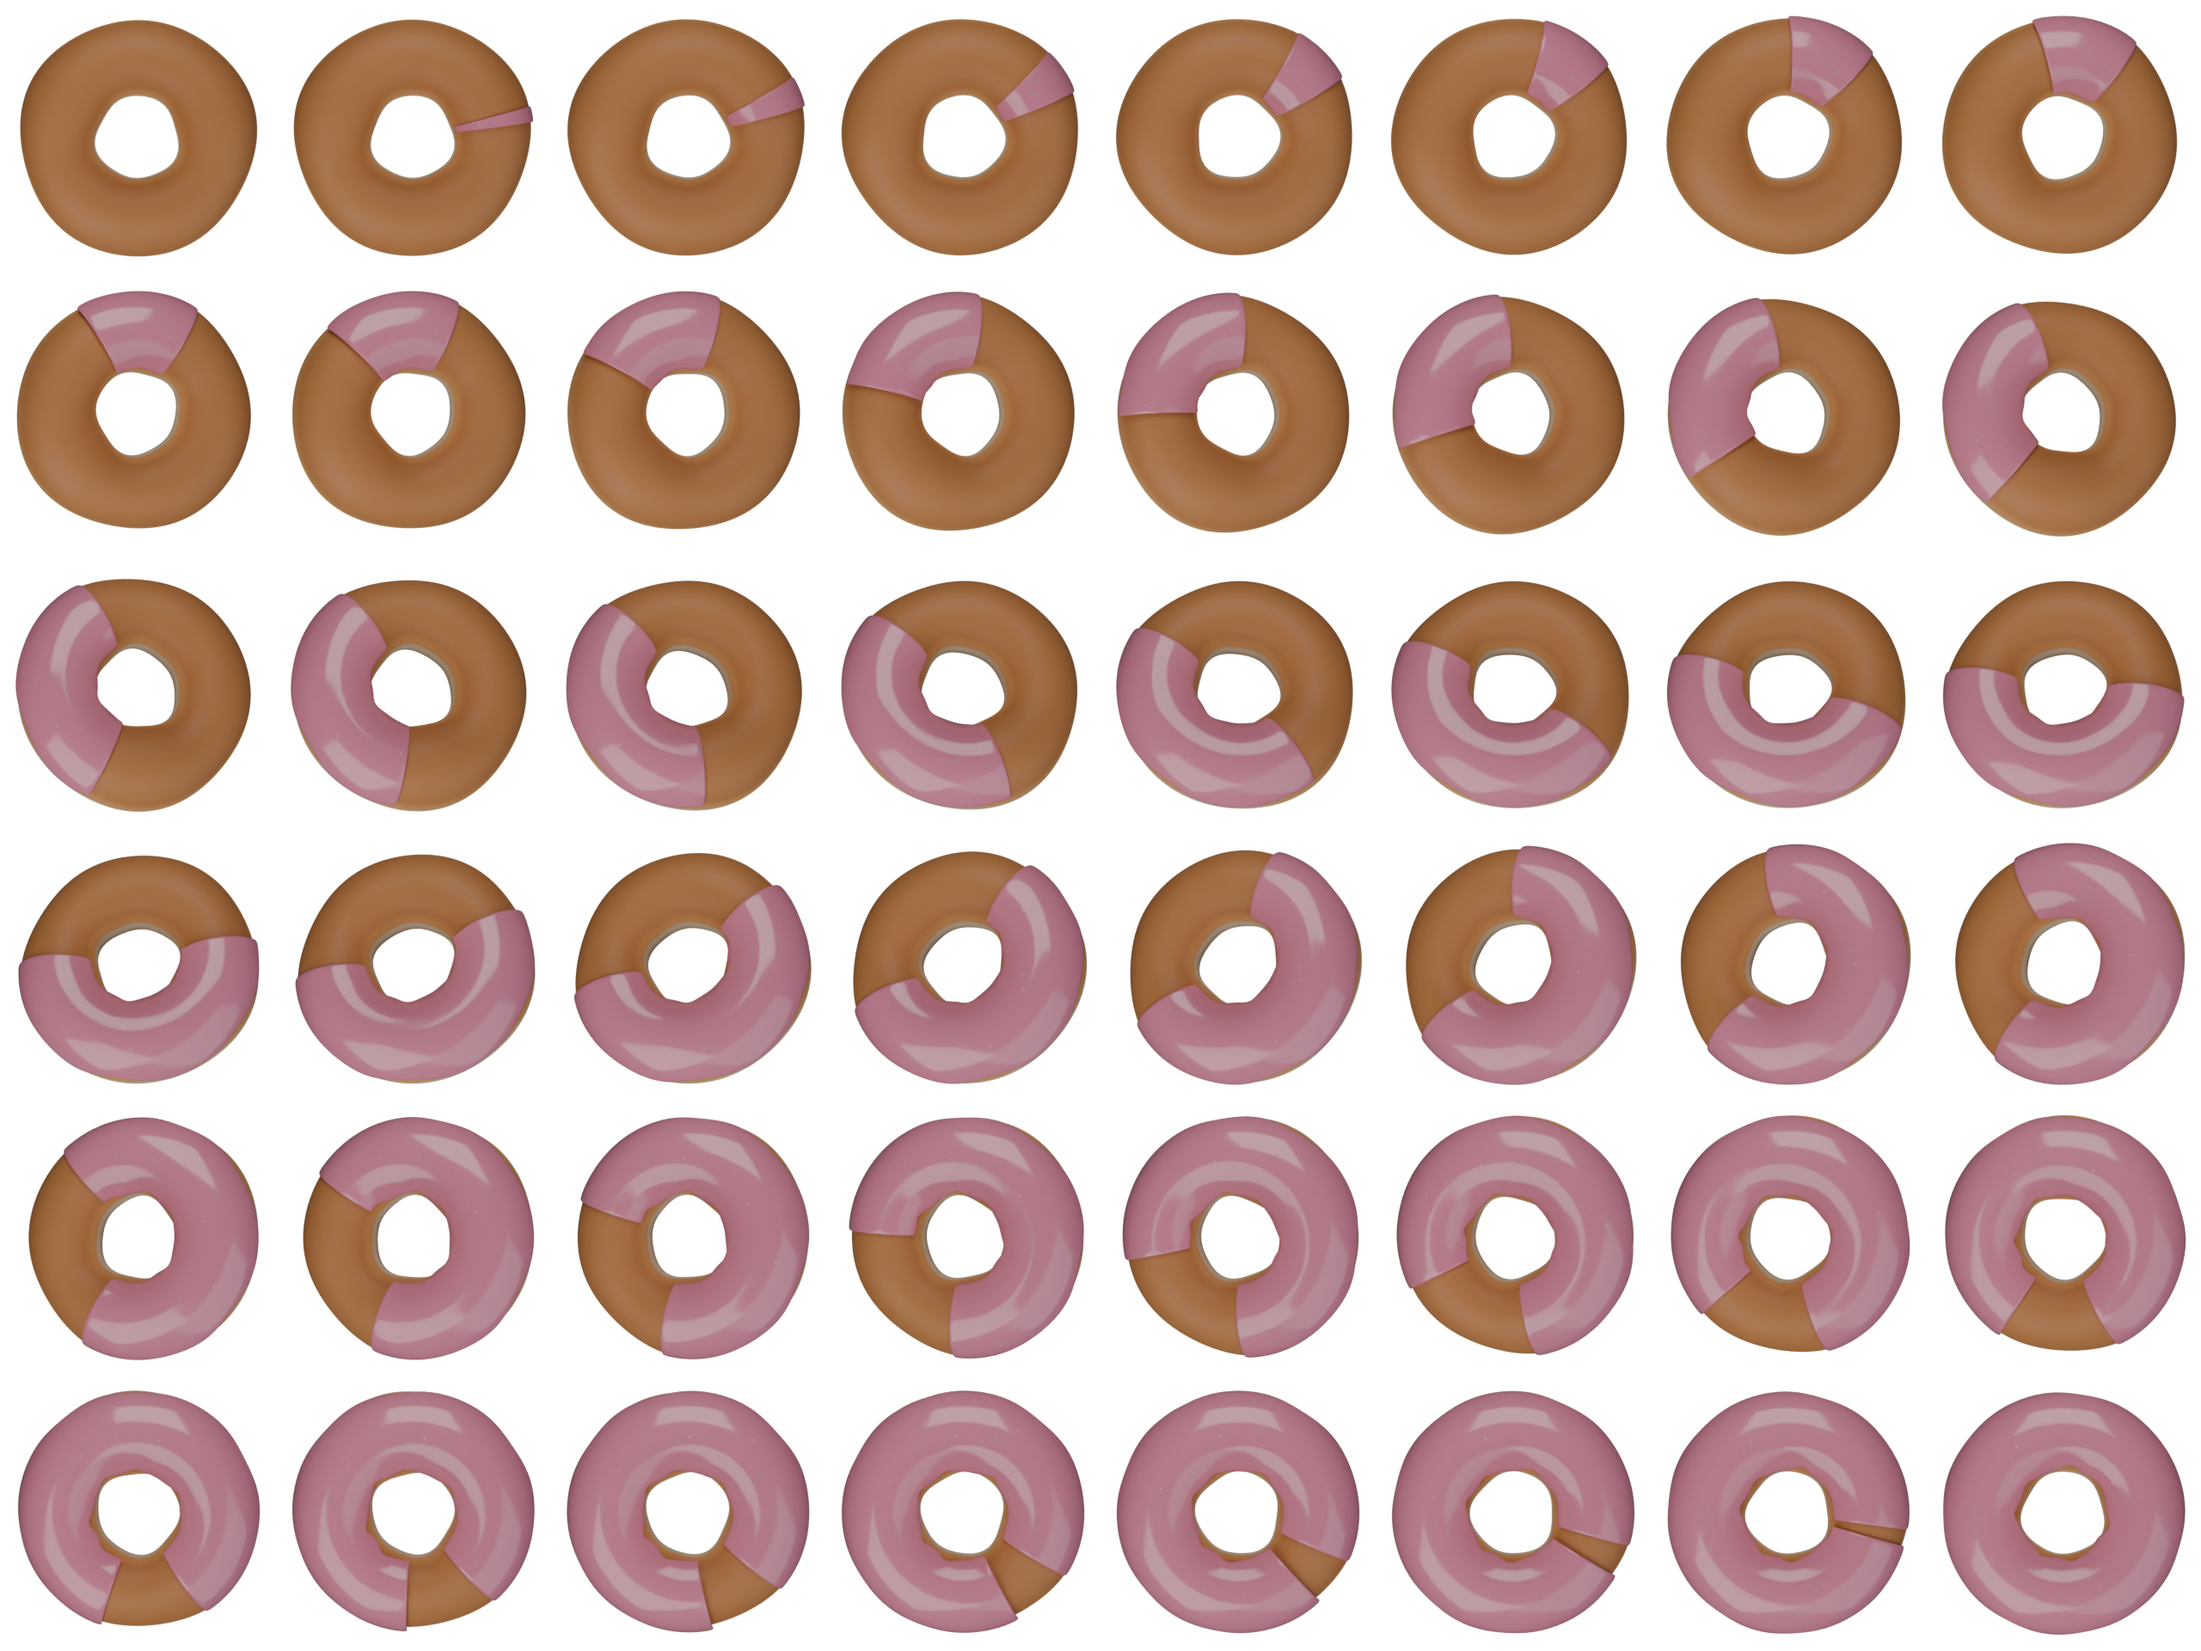
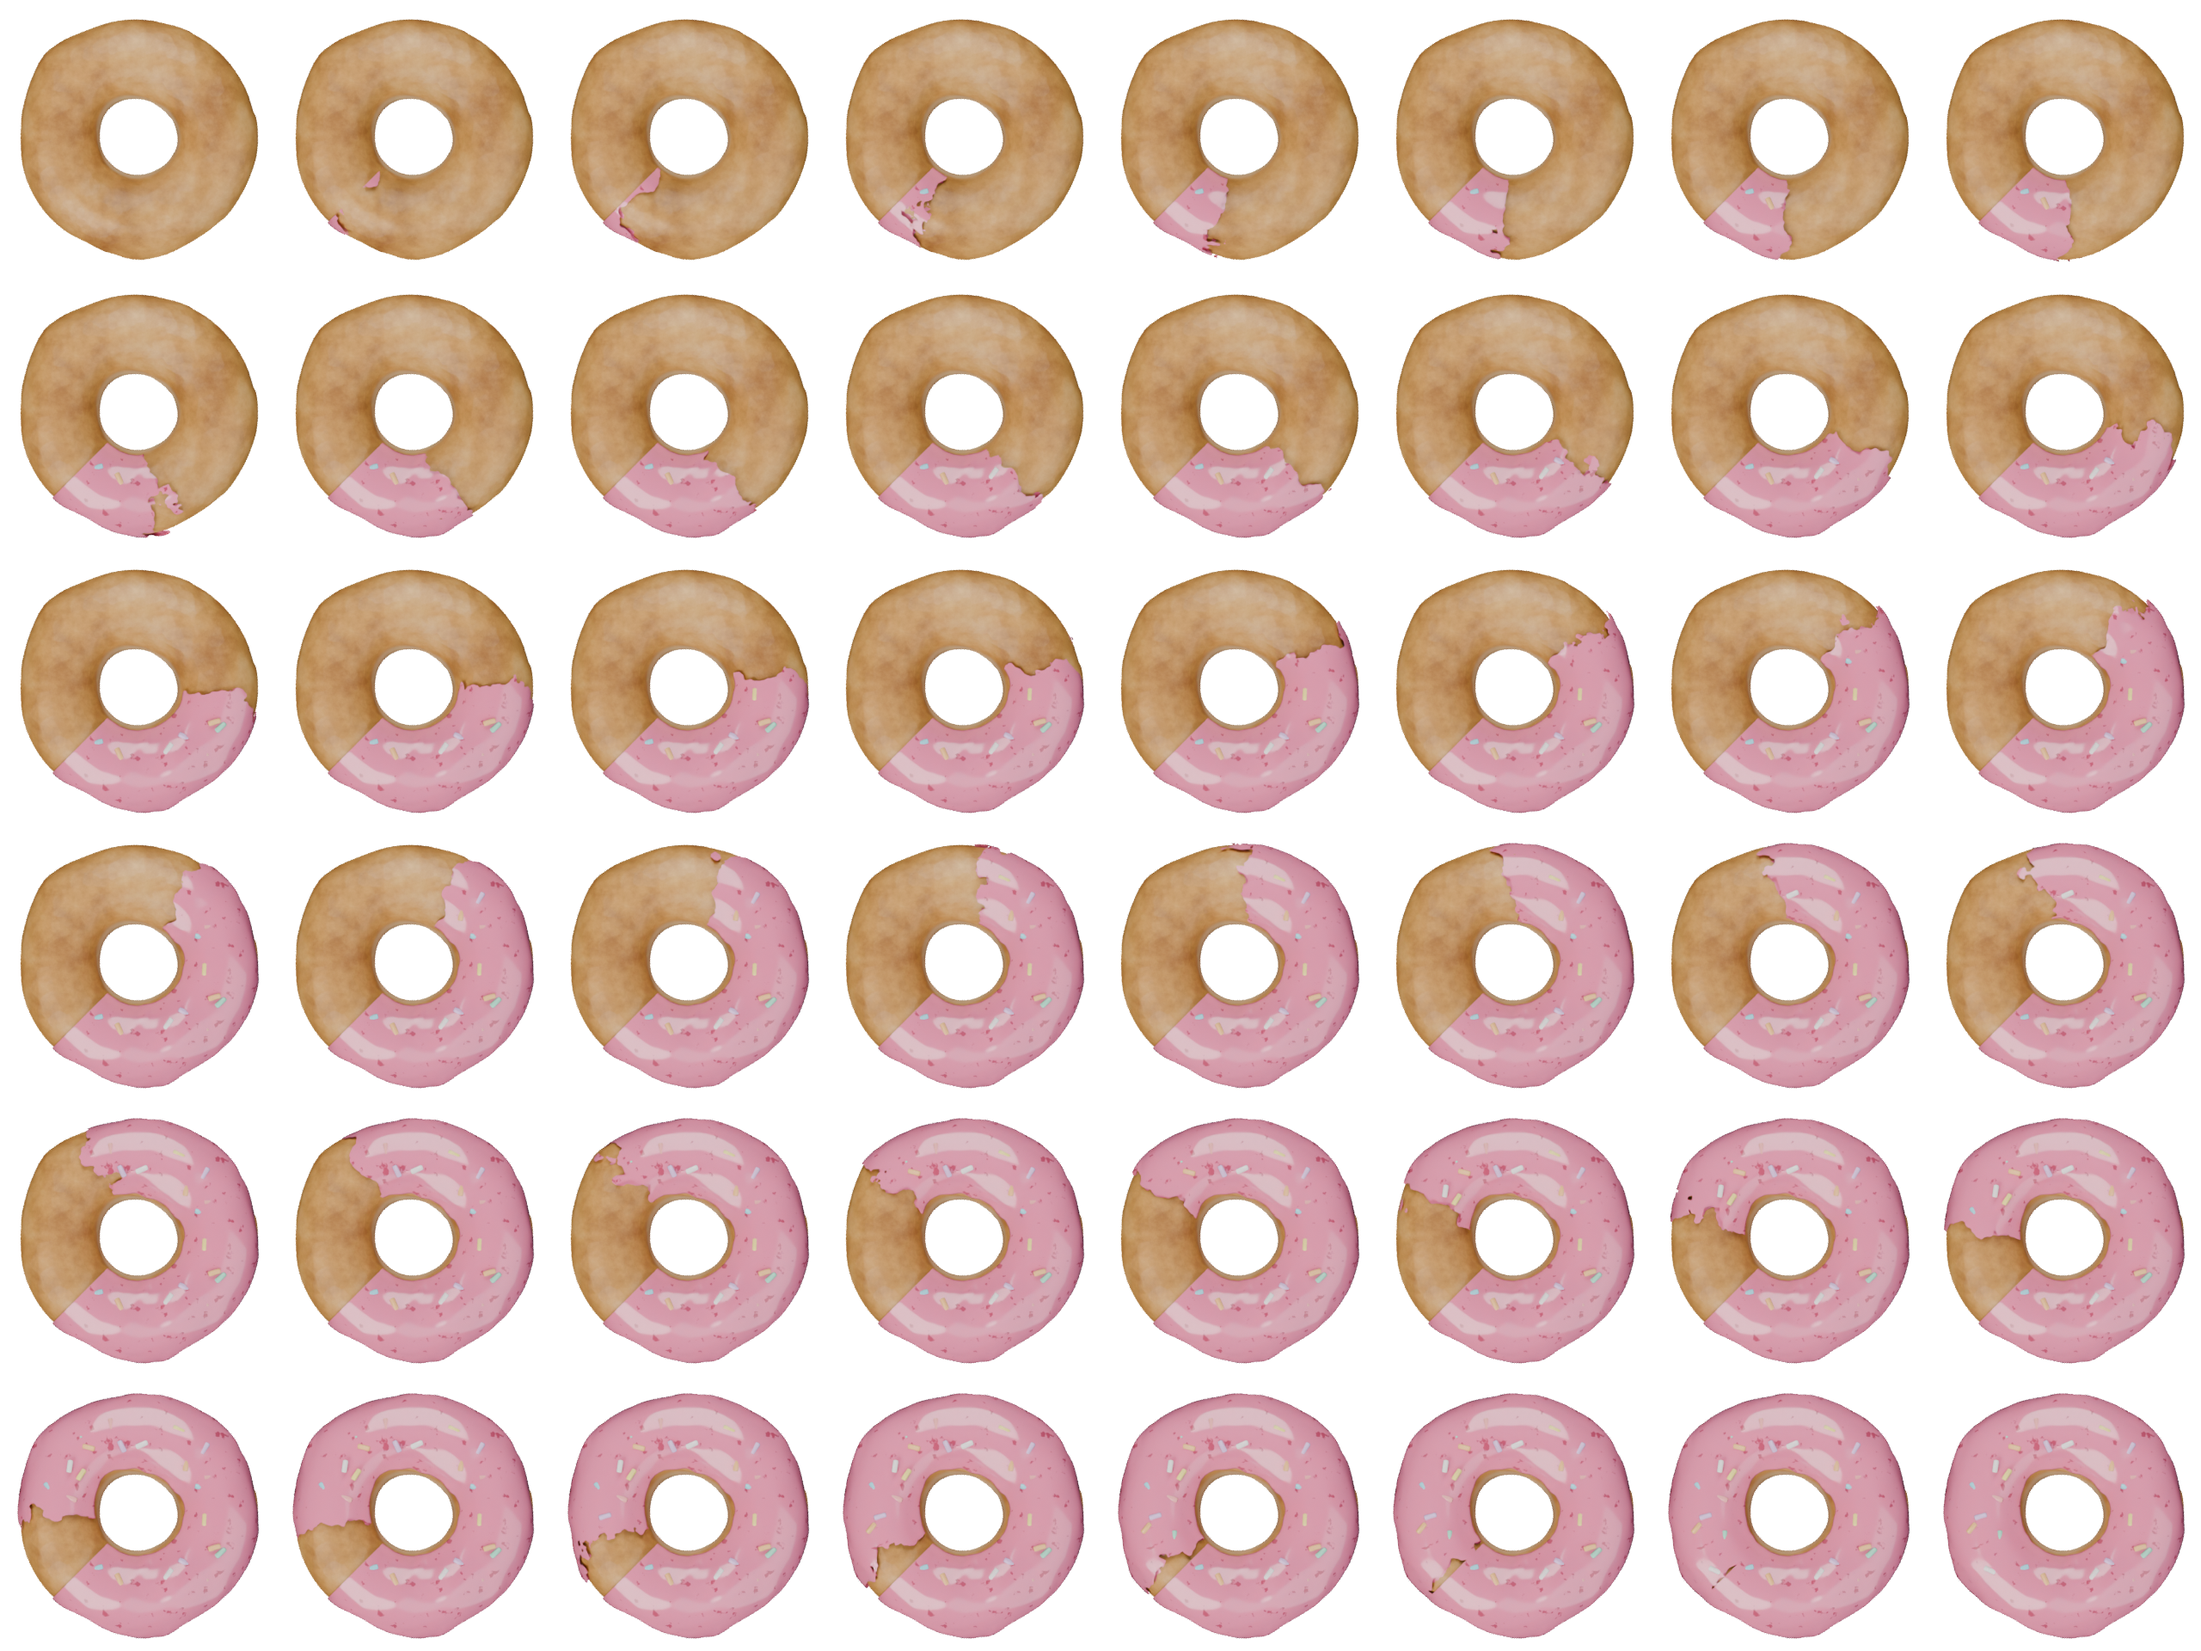
feat(design-01): implement photorealistic 3D donut spin animation

diff --git a/lib/screens/donut_spin/donut_spin_screen.dart b/lib/screens/donut_spin/donut_spin_screen.dart
@@ -6,7 +6,6 @@ import 'widgets/app_home_placeholder.dart';
 import 'widgets/donut_frame_animator.dart';
 import 'widgets/donut_ground_shadow_painter.dart';
 import 'widgets/donut_portal_clipper.dart';
-import 'widgets/sprinkle_rain_painter.dart';
 
 /// Complete interactive mobile splash animation screen for Design 01 — Donut Spin.
 /// Mobile-first edge-to-edge presentation orchestrating 4 motion phases:
@@ -171,8 +170,7 @@ class _DonutSpinScreenState extends State<DonutSpinScreen>
     final donutDiameter = screenWidth * 0.62;
     final donutRadius = donutDiameter / 2.0;
 
-    // Calibrated inner hole radius:
-    // Empirically measured from 320x320 reference-guided 3D frames (radius = 46.5 px, ratio = 0.1453125)
+    // Optical hole center and radius calibrated from 3D Cycles frames
     final innerHoleRadius = donutDiameter * DonutCalibration.holeRadiusRatio;
     final holeCenter = Offset(
       centerOffset.dx + donutDiameter * DonutCalibration.holeCenterOffsetX,
@@ -191,13 +189,17 @@ class _DonutSpinScreenState extends State<DonutSpinScreen>
     double cameraZoom = 1.0;
     double donutOpacity = 1.0;
     int frameIndex = 0;
-    double sprinkleRainProgress = 0.0;
+
+    // AppHomePlaceholder portal dynamics
+    double placeholderOpacity = 0.0;
+    double placeholderScale = 0.88;
+    double placeholderEnter = 0.0;
 
     // -------------------------------------------------------------------------
     // Phase 1: Plain Donut Drop & Gooey Bounce (0–650 ms, t in [0.0, 0.217])
     // -------------------------------------------------------------------------
     if (t < 0.217) {
-      frameIndex = 0; // Plain golden dough base, no glaze, no sprinkles
+      frameIndex = 0; // Plain golden dough base (matching LEFT reference)
 
       if (t < 0.133) {
         // Falling with gravity acceleration from completely off-screen
@@ -222,7 +224,7 @@ class _DonutSpinScreenState extends State<DonutSpinScreen>
         final c = math.sin(p * math.pi / 2);
         squashY = 0.72 + (1.14 - 0.72) * c;
         squashX = 1.26 - (1.26 - 0.90) * c;
-        donutY = 16.0 - 44.0 * c; // Rebounds upward to -28 px
+        donutY = 16.0 - 44.0 * c;
         shadowOpacity = 0.42 - 0.20 * c;
         shadowScale = 1.24 - 0.38 * c;
       } else {
@@ -251,9 +253,16 @@ class _DonutSpinScreenState extends State<DonutSpinScreen>
       squashY = 1.0;
       shadowOpacity = 0.30;
       shadowScale = 1.0;
+
+      // Softly fade in the placeholder inside the center hole toward the end of spin
+      if (p > 0.70) {
+        final fadeP = ((p - 0.70) / 0.30).clamp(0.0, 1.0);
+        placeholderOpacity = fadeP * 0.75;
+        placeholderScale = 0.88 + 0.06 * fadeP;
+      }
     }
     // -------------------------------------------------------------------------
-    // Phase 3: Glazed Donut at Rest, Subtle Camera Approach & Sprinkle Rain (1,550–2,150 ms, t in [0.517, 0.717])
+    // Phase 3: Glazed Donut at Rest, Focal Lock (1,550–2,150 ms, t in [0.517, 0.717])
     // -------------------------------------------------------------------------
     else if (t < 0.717) {
       final p = ((t - 0.517) / (0.717 - 0.517)).clamp(0.0, 1.0);
@@ -261,16 +270,18 @@ class _DonutSpinScreenState extends State<DonutSpinScreen>
       frameIndex = 47; // Fully glazed strawberry pink donut with 3D candy sprinkles
       donutY = 0.0;
 
-      // Background and foreground falling sprinkle rain cascade
-      sprinkleRainProgress = p;
-
-      // Subtle camera zoom (1.0x to 1.12x) for focal lock
+      // Subtle camera approach (1.0x to 1.12x)
       cameraZoom = 1.0 + 0.12 * Curves.easeInOut.transform(p);
       shadowOpacity = 0.30;
       shadowScale = 1.0;
+
+      // Placeholder is smoothly idling inside the transparent center opening
+      placeholderOpacity = 0.75 + 0.25 * p;
+      placeholderScale = 0.94 + 0.06 * Curves.easeOut.transform(p);
+      placeholderEnter = 0.20 + 0.30 * p;
     }
     // -------------------------------------------------------------------------
-    // Phase 4: Calibrated Center-Hole Portal Plunge (2,150–3,000 ms, t in [0.717, 1.000])
+    // Phase 4: Seamless Portal Plunge Through Center Hole (2,150–3,000 ms, t in [0.717, 1.000])
     // -------------------------------------------------------------------------
     else {
       final p = ((t - 0.717) / (1.000 - 0.717)).clamp(0.0, 1.0);
@@ -279,37 +290,29 @@ class _DonutSpinScreenState extends State<DonutSpinScreen>
       frameIndex = 47;
       donutY = 0.0;
 
-      // Camera zooms forward through the opening (from 1.12x to 4.2x)
-      cameraZoom = 1.12 + 3.08 * plungeCurve;
+      // Camera plunges through the opening (from 1.12x to 5.2x)
+      cameraZoom = 1.12 + 4.08 * plungeCurve;
 
       // Fade out donut smoothly as the camera passes through the opening plane
-      if (p < 0.35) {
+      if (p < 0.25) {
         donutOpacity = 1.0;
       } else {
-        donutOpacity = (1.0 - (p - 0.35) / 0.50).clamp(0.0, 1.0);
+        donutOpacity = (1.0 - (p - 0.25) / 0.45).clamp(0.0, 1.0);
       }
 
       shadowOpacity = (0.30 * (1.0 - plungeCurve)).clamp(0.0, 1.0);
-      sprinkleRainProgress = (1.0 - p * 0.7).clamp(0.0, 1.0);
+
+      placeholderOpacity = 1.0;
+      placeholderScale = 1.0;
+      placeholderEnter = 0.50 + 0.50 * Curves.easeOutCubic.transform(p);
     }
 
-    // Screen diagonal for complete corner-to-corner portal expansion
+    // Portal inner rim glow while camera passes through
     final screenDiagonal =
         math.sqrt(screenWidth * screenWidth + screenHeight * screenHeight);
-
-    // Continuous, smooth portal expansion originating strictly from the calibrated hole
-    double portalRadius = 0.0;
+    double portalRimRadius = 0.0;
     if (t >= 0.717) {
-      final p = ((t - 0.717) / (1.000 - 0.717)).clamp(0.0, 1.0);
-      final baseHole = innerHoleRadius * cameraZoom;
-      portalRadius = baseHole + (screenDiagonal * 1.25 - baseHole) * math.pow(p, 2.2);
-    }
-
-    // Placeholder enter progress
-    double placeholderEnter = 0.0;
-    if (t >= 0.717) {
-      final p = ((t - 0.717) / (1.000 - 0.717)).clamp(0.0, 1.0);
-      placeholderEnter = 0.40 + 0.60 * Curves.easeOutCubic.transform(p);
+      portalRimRadius = innerHoleRadius * cameraZoom;
     }
 
     return Stack(
@@ -318,7 +321,7 @@ class _DonutSpinScreenState extends State<DonutSpinScreen>
         // 1. Background layer: Warm vanilla cream
         Container(color: const Color(0xFFFFF6E9)),
 
-        // 2. Ground Contact Shadow (anchored to ground plane, responsive to drop & squashing)
+        // 2. Ground Contact Shadow (anchored to ground plane, responsive to drop & bounce)
         if (shadowOpacity > 0.0)
           Positioned.fill(
             child: CustomPaint(
@@ -332,46 +335,23 @@ class _DonutSpinScreenState extends State<DonutSpinScreen>
             ),
           ),
 
-        // 3. Background Candy Sprinkles Layer (tumbles behind the 3D donut)
-        if (sprinkleRainProgress > 0.0 && donutOpacity > 0.1)
+        // 3. App Home Placeholder Layer
+        // Naturally visible through the donut's genuine transparent center opening
+        if (placeholderOpacity > 0.0)
           Positioned.fill(
-            child: CustomPaint(
-              painter: SprinkleRainPainter(
-                progress: sprinkleRainProgress,
-                depthFilter: SprinkleDepthFilter.backgroundOnly,
+            child: Opacity(
+              opacity: placeholderOpacity,
+              child: Transform.scale(
+                scale: placeholderScale,
+                child: AppHomePlaceholder(
+                  enterProgress: placeholderEnter,
+                ),
               ),
             ),
           ),
 
-        // 4. Portal Revealed Layer: Minimal App Home Placeholder
-        // Smoothly revealed through the donut's actual calibrated center opening
-        if (t >= 0.717)
-          ClipPath(
-            clipper: DonutHolePortalClipper(
-              center: holeCenter,
-              radius: portalRadius,
-            ),
-            child: AppHomePlaceholder(
-              enterProgress: placeholderEnter,
-            ),
-          ),
-
-        // 5. Portal Inner Rim Glow Band (subtle soft illumination while passing through)
-        if (portalRadius > 0.0 &&
-            portalRadius < screenDiagonal * 0.85 &&
-            donutOpacity > 0.15)
-          Positioned.fill(
-            child: CustomPaint(
-              painter: PortalRimPainter(
-                center: holeCenter,
-                radius: portalRadius,
-                opacity: donutOpacity * 0.50,
-              ),
-            ),
-          ),
-
-        // 6. Photorealistic 3D Donut Layer
-        // (Drop, Gooey Bounce, Diagonal 360° Spin + Progressive Glaze, Sprinkles, Zoom Plunge)
+        // 4. Photorealistic 3D Donut Layer
+        // (Drop, Gooey Bounce, Diagonal 360° Spin + Progressive Strawberry Glaze + 3D Sprinkles)
         if (donutOpacity > 0.0)
           Positioned.fill(
             child: Opacity(
@@ -396,13 +376,16 @@ class _DonutSpinScreenState extends State<DonutSpinScreen>
             ),
           ),
 
-        // 7. Foreground Candy Sprinkles Layer (tumbles in front of the donut glaze)
-        if (sprinkleRainProgress > 0.0 && donutOpacity > 0.1)
+        // 5. Portal Inner Rim Glow Band (subtle soft illumination while passing through)
+        if (portalRimRadius > 0.0 &&
+            portalRimRadius < screenDiagonal * 0.90 &&
+            donutOpacity > 0.15)
           Positioned.fill(
             child: CustomPaint(
-              painter: SprinkleRainPainter(
-                progress: sprinkleRainProgress,
-                depthFilter: SprinkleDepthFilter.foregroundOnly,
+              painter: PortalRimPainter(
+                center: holeCenter,
+                radius: portalRimRadius,
+                opacity: donutOpacity * 0.50,
               ),
             ),
           ),

diff --git a/lib/screens/donut_spin/widgets/donut_frame_animator.dart b/lib/screens/donut_spin/widgets/donut_frame_animator.dart
@@ -4,24 +4,24 @@ import 'package:flutter/services.dart';
 
 /// Analytical calibration constants empirically measured from the reference-guided 3D frames:
 /// - Frame size: 320x320 px
-/// - Hole center: (158.0, 160.0) — center opening
-/// - Hole radius: 46.5 px — 100% transparent opening
-/// - Outer rim radius: 141.0 px — golden dough & pink glaze
+/// - Hole center: (161.0, 160.0) — optical center opening
+/// - Hole radius: 44.5 px — 100% transparent opening (diameter 89 px)
+/// - Outer rim radius: 140.0 px — golden dough & pink glaze
 class DonutCalibration {
   static const double frameSize = 320.0;
-  static const double holeRadius = 46.5;
-  static const double outerRadius = 141.0;
+  static const double holeRadius = 44.5;
+  static const double outerRadius = 140.0;
 
   /// Inner hole radius relative to the rendered donut diameter.
-  /// 46.5 / 320.0 = 0.1453125.
+  /// 44.5 / 320.0 = 0.1390625.
   static const double holeRadiusRatio = holeRadius / frameSize;
 
   /// Outer radius relative to the rendered donut diameter.
-  /// 141.0 / 320.0 = 0.440625.
+  /// 140.0 / 320.0 = 0.4375.
   static const double outerRadiusRatio = outerRadius / frameSize;
 
-  /// Center X offset relative to frame center: (158.0 - 160.0) / 320.0 = -0.00625.
-  static const double holeCenterOffsetX = (158.0 - 160.0) / frameSize;
+  /// Center X offset relative to frame center: (161.0 - 160.0) / 320.0 = 0.003125.
+  static const double holeCenterOffsetX = (161.0 - 160.0) / frameSize;
 }
 
 /// Static manager that caches the decoded 48-frame atlas in GPU memory

diff --git a/test/widget_test.dart b/test/widget_test.dart
@@ -180,8 +180,8 @@ void main() {
     testWidgets('Calibrated 4-phase sequence and hole geometry ratios are validated',
         (WidgetTester tester) async {
       // Analytical hole calibration ratio matching reference 3D frames
-      expect(DonutCalibration.holeRadiusRatio, closeTo(46.5 / 320.0, 0.0001));
-      expect(DonutCalibration.outerRadiusRatio, closeTo(141.0 / 320.0, 0.0001));
+      expect(DonutCalibration.holeRadiusRatio, closeTo(44.5 / 320.0, 0.0001));
+      expect(DonutCalibration.outerRadiusRatio, closeTo(140.0 / 320.0, 0.0001));
 
       tester.view.physicalSize = const Size(393, 852);
       tester.view.devicePixelRatio = 1.0;
